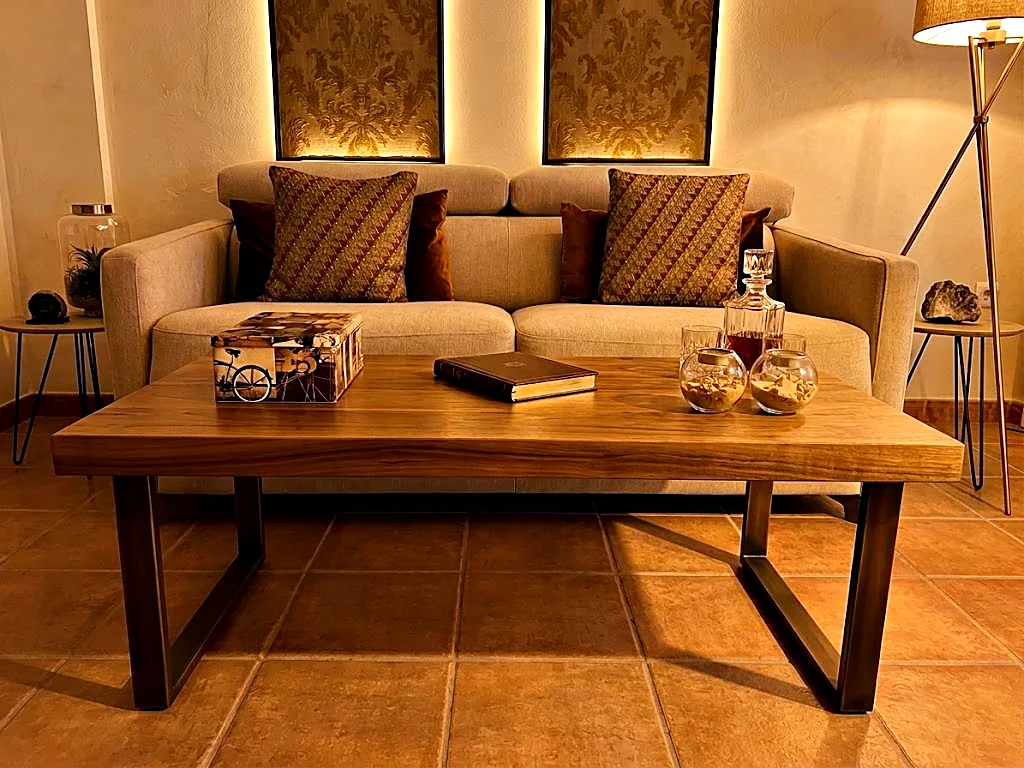
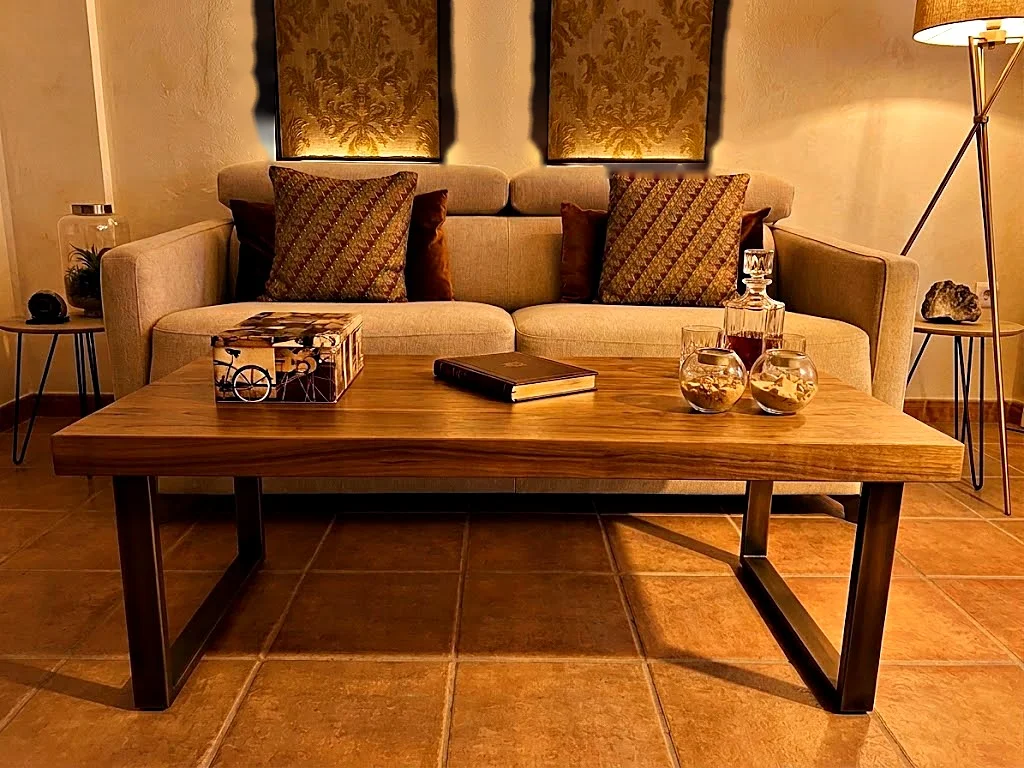
Thalassa: corregir dormitorio principal (vista al mar) y salón (quitar luz falsa de los paneles)
- Foto 2 de la galería (dormitorio, pared demasiado saturada) tenía la
  mejor vista al mar de las dos tomas del mismo dormitorio; se
  traslada esa vista a la foto que se queda (composición por
  homografía sobre el mismo hueco de ventana) y se elimina la foto 2
  de la galería (imgs + captions ES/EN + lqip), ya redundante.
- Salón "rincón de sofá": los dos paneles decorativos mostraban un
  resplandor cálido alrededor que no existe en la instalación real.
  Retocado con inpainting dirigido (máscara por umbral de brillo,
  limitada a las bandas junto a los paneles) para dejar la pared lisa.

diff --git a/docs/components/apartment-page.js b/docs/components/apartment-page.js
@@ -106,14 +106,14 @@ const APT_DATA = {
     floorplan_desc_es: 'Thalassa ocupa la tercera planta (desde el garaje) en una sola crujía: salón con terraza panorámica, cocina abierta, dos dormitorios, dos baños y vistas al Mediterráneo y al Salar de los Canos.',
     floorplan_desc_en: 'Thalassa occupies the third floor (from the garage) in a single open plan: living room with panoramic terrace, open kitchen, two bedrooms, two bathrooms and views over the Mediterranean and the Salar de los Canos.',
     others: ['vm', 'vs'],
-    gallery_imgs: ['assets/apt-vt-gallery-20.jpg', 'assets/apt-vt-gallery-22.jpg', 'assets/apt-vt-gallery-17.jpg', 'assets/apt-vt-gallery-19.jpg', 'assets/apt-vt-gallery-10.jpg', 'assets/apt-vt-gallery-23.jpg', 'assets/apt-vt-gallery-21.jpg', 'assets/apt-vt-gallery-24.jpg', 'assets/apt-vt-gallery-25.jpg', 'assets/apt-vt-gallery-26.jpg', 'assets/apt-vt-gallery-27.jpg', 'assets/apt-vt-gallery-28.jpg', 'assets/apt-vt-gallery-29.jpg', 'assets/apt-vt-gallery-06.jpg', 'assets/apt-vt-gallery-18.jpg', 'assets/apt-vt-gallery-11.jpg', 'assets/apt-vt-gallery-01.jpg', 'assets/apt-vt-gallery-03.jpg', 'assets/apt-vt-gallery-05.jpg', 'assets/apt-vt-gallery-09.jpg', 'assets/apt-vt-gallery-04.jpg', 'assets/apt-vt-gallery-12.jpg', 'assets/apt-vt-gallery-13.jpg', 'assets/apt-vt-gallery-07.jpg', 'assets/apt-vt-gallery-14.jpg', 'assets/apt-vt-gallery-16.jpg', 'assets/apt-vt-gallery-08.jpg'],
+    gallery_imgs: ['assets/apt-vt-gallery-20.jpg', 'assets/apt-vt-gallery-17.jpg', 'assets/apt-vt-gallery-19.jpg', 'assets/apt-vt-gallery-10.jpg', 'assets/apt-vt-gallery-23.jpg', 'assets/apt-vt-gallery-21.jpg', 'assets/apt-vt-gallery-24.jpg', 'assets/apt-vt-gallery-25.jpg', 'assets/apt-vt-gallery-26.jpg', 'assets/apt-vt-gallery-27.jpg', 'assets/apt-vt-gallery-28.jpg', 'assets/apt-vt-gallery-29.jpg', 'assets/apt-vt-gallery-06.jpg', 'assets/apt-vt-gallery-18.jpg', 'assets/apt-vt-gallery-11.jpg', 'assets/apt-vt-gallery-01.jpg', 'assets/apt-vt-gallery-03.jpg', 'assets/apt-vt-gallery-05.jpg', 'assets/apt-vt-gallery-09.jpg', 'assets/apt-vt-gallery-04.jpg', 'assets/apt-vt-gallery-12.jpg', 'assets/apt-vt-gallery-13.jpg', 'assets/apt-vt-gallery-07.jpg', 'assets/apt-vt-gallery-14.jpg', 'assets/apt-vt-gallery-16.jpg', 'assets/apt-vt-gallery-08.jpg'],
     es: {
       name: 'Hestía Thalassa',
       concept: 'El ático sobre el Mediterráneo y el Salar de los Canos.',
       desc: 'Hestía Thalassa es el ático, el más elevado de los tres. Desde su terraza panorámica se ve el Mediterráneo y, hacia el interior, el Salar de los Canos, un paisaje árido y de gran belleza que cambia con la luz del día. El punto más abierto y luminoso de toda la urbanización.',
       desc2: 'El ático tiene una planta abierta y una terraza con vistas al mar. La urbanización cuenta con piscina comunitaria con jacuzzi, minigim, y un minispa con piscina climatizada abierto en otoño, invierno y primavera.',
       features: ['El más alto · ves toda la playa, con la sensación de dominar la vista', '6 plazas + bebé · 2 habitaciones', 'Ático · tercera planta desde el garaje', 'Terraza panorámica · vistas al mar y al Salar de los Canos', '2 piscinas exteriores comunitarias + jacuzzi', 'Minigim · piscina climatizada + minispa (otoño-primavera)', '1,5 km de la playa', 'Mascotas · petición previa · suplemento', 'Aire acondicionado frío/calor', 'Smart TV 55" · Prime Video · HBO Max · Skyshowtime', 'WiFi fibra óptica · Amazon Alexa', 'Lavadora · lavavajillas · nevera · microondas', 'Cafetera de cápsulas + espresso · batidora · plancha', 'Cama matrimonial 150 cm · colchón viscoelástico', 'Toallas 100% algodón 200 hilos · nórdicos de plumas'],
-      gallery_captions: ['Salón · luz cálida, terraza a un paso', 'Dormitorio principal · turquesa y el mar al fondo', 'Terraza · noches cálidas que apetece alargar', 'Cocina · encimera gris, ocres que abrigan', 'Salón · rincón de sofá, luz de tarde', 'Dormitorio principal · manta suave y horizonte', 'Baño · lavabo en negro, espejo de luna', 'Dormitorio principal · luz cálida sobre turquesa', 'Piscina climatizada · minispa con vistas', 'Piscina climatizada · spa cubierto', 'Jacuzzi y piscina climatizada', 'Gimnasio comunitario', 'Sauna y baño de vapor', 'Comedor · mesa que crece, luz que acompaña', 'Piscina · desde arriba, el Mediterráneo espera', 'Terraza · el horizonte entero al atardecer', 'Terraza · el Mediterráneo se tiñe de oro', 'Dormitorio principal · bordados con tacto de hogar', 'Salón · el atardecer entra por la ventana', 'Terraza · bajo el toldo, sin prisa', 'Dormitorio 2 · cabeceros rojos, sueños de color', 'Dormitorio 2 · granate y luz que arropa', 'Dormitorio 2 · cojines índigo · invitación al descanso', 'Baño 1 · azul de mosaico bajo los pies', 'Baño 2 · ducha de obra, amarillo que despierta', 'Baño 2 · negro mate y una flor serena', 'Entrada · mueble artesano, espejo que recibe']
+      gallery_captions: ['Salón · luz cálida, terraza a un paso', 'Terraza · noches cálidas que apetece alargar', 'Cocina · encimera gris, ocres que abrigan', 'Salón · rincón de sofá, luz de tarde', 'Dormitorio principal · manta suave y horizonte', 'Baño · lavabo en negro, espejo de luna', 'Dormitorio principal · luz cálida sobre turquesa', 'Piscina climatizada · minispa con vistas', 'Piscina climatizada · spa cubierto', 'Jacuzzi y piscina climatizada', 'Gimnasio comunitario', 'Sauna y baño de vapor', 'Comedor · mesa que crece, luz que acompaña', 'Piscina · desde arriba, el Mediterráneo espera', 'Terraza · el horizonte entero al atardecer', 'Terraza · el Mediterráneo se tiñe de oro', 'Dormitorio principal · bordados con tacto de hogar', 'Salón · el atardecer entra por la ventana', 'Terraza · bajo el toldo, sin prisa', 'Dormitorio 2 · cabeceros rojos, sueños de color', 'Dormitorio 2 · granate y luz que arropa', 'Dormitorio 2 · cojines índigo · invitación al descanso', 'Baño 1 · azul de mosaico bajo los pies', 'Baño 2 · ducha de obra, amarillo que despierta', 'Baño 2 · negro mate y una flor serena', 'Entrada · mueble artesano, espejo que recibe']
     },
     en: {
       name: 'Hestía Thalassa',
@@ -121,7 +121,7 @@ const APT_DATA = {
       desc: 'Hestía Thalassa is the penthouse, the highest of the three. From its panoramic terrace you look out over the Mediterranean and, inland, the Salar de los Canos: an arid, dramatically beautiful landscape that shifts with the light throughout the day.',
       desc2: 'The penthouse is laid out as a single open floor with a terrace and sea views. The complex has a shared pool with jacuzzi, a mini-gym, and a mini-spa with heated pool open in autumn, winter and spring.',
       features: ['The highest · see the whole beach, commanding the view', '6 guests + baby · 2 bedrooms', 'Penthouse · third floor from the garage', 'Panoramic terrace · sea & Salar de los Canos views', '2 outdoor shared pools + jacuzzi', 'Mini-gym · heated pool + mini-spa (autumn–spring)', '1.5 km from the beach', 'Pets · on request · supplement', 'A/C heating & cooling', 'Smart TV 55" · Prime Video · HBO Max · Skyshowtime', 'Fibre WiFi · Amazon Alexa', 'Washer · dishwasher · fridge · microwave', 'Capsule + espresso coffee maker · blender · iron', 'Double bed 150 cm · memory foam mattress', '100% cotton 200-thread towels · down duvets'],
-      gallery_captions: ['Living room · warm light, terrace steps away', 'Master bedroom · teal and the sea beyond', 'Terrace · warm nights worth stretching', 'Kitchen · grey counter, ochre warmth', 'Living room · sofa corner, evening light', 'Master bedroom · soft throw and horizon', 'Bathroom · black vanity, moon-round mirror', 'Master bedroom · warm light on teal', 'Heated pool · mini-spa with views', 'Heated pool · the indoor spa', 'Jacuzzi and heated pool', 'Community gym', 'Sauna and steam room', 'Dining area · the table grows, light follows', 'Pool · from above, the Mediterranean beyond', 'Terrace · the whole horizon, golden hour', 'Terrace · the Mediterranean turns to gold', 'Master bedroom · embroidered cushions, touch of home', 'Living room · sunset pouring through the window', 'Terrace · under the awning, unhurried', 'Bedroom 2 · red headboards, colourful dreams', 'Bedroom 2 · burgundy warmth as night falls', 'Bedroom 2 · indigo cushions · an invitation to rest', 'Bathroom 1 · mosaic blue underfoot', 'Bathroom 2 · walk-in shower, yellow that wakes', 'Bathroom 2 · matte black, one quiet flower', "Entrance · artisan cabinet, a mirror's welcome"]
+      gallery_captions: ['Living room · warm light, terrace steps away', 'Terrace · warm nights worth stretching', 'Kitchen · grey counter, ochre warmth', 'Living room · sofa corner, evening light', 'Master bedroom · soft throw and horizon', 'Bathroom · black vanity, moon-round mirror', 'Master bedroom · warm light on teal', 'Heated pool · mini-spa with views', 'Heated pool · the indoor spa', 'Jacuzzi and heated pool', 'Community gym', 'Sauna and steam room', 'Dining area · the table grows, light follows', 'Pool · from above, the Mediterranean beyond', 'Terrace · the whole horizon, golden hour', 'Terrace · the Mediterranean turns to gold', 'Master bedroom · embroidered cushions, touch of home', 'Living room · sunset pouring through the window', 'Terrace · under the awning, unhurried', 'Bedroom 2 · red headboards, colourful dreams', 'Bedroom 2 · burgundy warmth as night falls', 'Bedroom 2 · indigo cushions · an invitation to rest', 'Bathroom 1 · mosaic blue underfoot', 'Bathroom 2 · walk-in shower, yellow that wakes', 'Bathroom 2 · matte black, one quiet flower', "Entrance · artisan cabinet, a mirror's welcome"]
     }
   },
   vs: {

diff --git a/docs/components/apartment-page.jsx b/docs/components/apartment-page.jsx
@@ -93,7 +93,6 @@ const APT_DATA = {
     others: ['vm', 'vs'],
     gallery_imgs: [
       'assets/apt-vt-gallery-20.jpg',
-      'assets/apt-vt-gallery-22.jpg',
       'assets/apt-vt-gallery-17.jpg',
       'assets/apt-vt-gallery-19.jpg',
       'assets/apt-vt-gallery-10.jpg',
@@ -126,7 +125,7 @@ const APT_DATA = {
       desc: 'Hestía Thalassa es el ático, el más elevado de los tres. Desde su terraza panorámica se ve el Mediterráneo y, hacia el interior, el Salar de los Canos, un paisaje árido y de gran belleza que cambia con la luz del día. El punto más abierto y luminoso de toda la urbanización.',
       desc2: 'El ático tiene una planta abierta y una terraza con vistas al mar. La urbanización cuenta con piscina comunitaria con jacuzzi, minigim, y un minispa con piscina climatizada abierto en otoño, invierno y primavera.',
       features: ['El más alto · ves toda la playa, con la sensación de dominar la vista', '6 plazas + bebé · 2 habitaciones', 'Ático · tercera planta desde el garaje', 'Terraza panorámica · vistas al mar y al Salar de los Canos', '2 piscinas exteriores comunitarias + jacuzzi', 'Minigim · piscina climatizada + minispa (otoño-primavera)', '1,5 km de la playa', 'Mascotas · petición previa · suplemento', 'Aire acondicionado frío/calor', 'Smart TV 55" · Prime Video · HBO Max · Skyshowtime', 'WiFi fibra óptica · Amazon Alexa', 'Lavadora · lavavajillas · nevera · microondas', 'Cafetera de cápsulas + espresso · batidora · plancha', 'Cama matrimonial 150 cm · colchón viscoelástico', 'Toallas 100% algodón 200 hilos · nórdicos de plumas'],
-      gallery_captions: ['Salón · luz cálida, terraza a un paso', 'Dormitorio principal · turquesa y el mar al fondo', 'Terraza · noches cálidas que apetece alargar', 'Cocina · encimera gris, ocres que abrigan', 'Salón · rincón de sofá, luz de tarde', 'Dormitorio principal · manta suave y horizonte', 'Baño · lavabo en negro, espejo de luna', 'Dormitorio principal · luz cálida sobre turquesa', 'Piscina climatizada · minispa con vistas', 'Piscina climatizada · spa cubierto', 'Jacuzzi y piscina climatizada', 'Gimnasio comunitario', 'Sauna y baño de vapor', 'Comedor · mesa que crece, luz que acompaña', 'Piscina · desde arriba, el Mediterráneo espera', 'Terraza · el horizonte entero al atardecer', 'Terraza · el Mediterráneo se tiñe de oro', 'Dormitorio principal · bordados con tacto de hogar', 'Salón · el atardecer entra por la ventana', 'Terraza · bajo el toldo, sin prisa', 'Dormitorio 2 · cabeceros rojos, sueños de color', 'Dormitorio 2 · granate y luz que arropa', 'Dormitorio 2 · cojines índigo · invitación al descanso', 'Baño 1 · azul de mosaico bajo los pies', 'Baño 2 · ducha de obra, amarillo que despierta', 'Baño 2 · negro mate y una flor serena', 'Entrada · mueble artesano, espejo que recibe'],
+      gallery_captions: ['Salón · luz cálida, terraza a un paso', 'Terraza · noches cálidas que apetece alargar', 'Cocina · encimera gris, ocres que abrigan', 'Salón · rincón de sofá, luz de tarde', 'Dormitorio principal · manta suave y horizonte', 'Baño · lavabo en negro, espejo de luna', 'Dormitorio principal · luz cálida sobre turquesa', 'Piscina climatizada · minispa con vistas', 'Piscina climatizada · spa cubierto', 'Jacuzzi y piscina climatizada', 'Gimnasio comunitario', 'Sauna y baño de vapor', 'Comedor · mesa que crece, luz que acompaña', 'Piscina · desde arriba, el Mediterráneo espera', 'Terraza · el horizonte entero al atardecer', 'Terraza · el Mediterráneo se tiñe de oro', 'Dormitorio principal · bordados con tacto de hogar', 'Salón · el atardecer entra por la ventana', 'Terraza · bajo el toldo, sin prisa', 'Dormitorio 2 · cabeceros rojos, sueños de color', 'Dormitorio 2 · granate y luz que arropa', 'Dormitorio 2 · cojines índigo · invitación al descanso', 'Baño 1 · azul de mosaico bajo los pies', 'Baño 2 · ducha de obra, amarillo que despierta', 'Baño 2 · negro mate y una flor serena', 'Entrada · mueble artesano, espejo que recibe'],
     },
     en: {
       name: 'Hestía Thalassa',
@@ -134,7 +133,7 @@ const APT_DATA = {
       desc: 'Hestía Thalassa is the penthouse, the highest of the three. From its panoramic terrace you look out over the Mediterranean and, inland, the Salar de los Canos: an arid, dramatically beautiful landscape that shifts with the light throughout the day.',
       desc2: 'The penthouse is laid out as a single open floor with a terrace and sea views. The complex has a shared pool with jacuzzi, a mini-gym, and a mini-spa with heated pool open in autumn, winter and spring.',
       features: ['The highest · see the whole beach, commanding the view', '6 guests + baby · 2 bedrooms', 'Penthouse · third floor from the garage', 'Panoramic terrace · sea & Salar de los Canos views', '2 outdoor shared pools + jacuzzi', 'Mini-gym · heated pool + mini-spa (autumn–spring)', '1.5 km from the beach', 'Pets · on request · supplement', 'A/C heating & cooling', 'Smart TV 55" · Prime Video · HBO Max · Skyshowtime', 'Fibre WiFi · Amazon Alexa', 'Washer · dishwasher · fridge · microwave', 'Capsule + espresso coffee maker · blender · iron', 'Double bed 150 cm · memory foam mattress', '100% cotton 200-thread towels · down duvets'],
-      gallery_captions: ['Living room · warm light, terrace steps away', 'Master bedroom · teal and the sea beyond', 'Terrace · warm nights worth stretching', 'Kitchen · grey counter, ochre warmth', 'Living room · sofa corner, evening light', 'Master bedroom · soft throw and horizon', 'Bathroom · black vanity, moon-round mirror', 'Master bedroom · warm light on teal', 'Heated pool · mini-spa with views', 'Heated pool · the indoor spa', 'Jacuzzi and heated pool', 'Community gym', 'Sauna and steam room', 'Dining area · the table grows, light follows', 'Pool · from above, the Mediterranean beyond', 'Terrace · the whole horizon, golden hour', 'Terrace · the Mediterranean turns to gold', 'Master bedroom · embroidered cushions, touch of home', 'Living room · sunset pouring through the window', 'Terrace · under the awning, unhurried', 'Bedroom 2 · red headboards, colourful dreams', 'Bedroom 2 · burgundy warmth as night falls', 'Bedroom 2 · indigo cushions · an invitation to rest', 'Bathroom 1 · mosaic blue underfoot', 'Bathroom 2 · walk-in shower, yellow that wakes', 'Bathroom 2 · matte black, one quiet flower', "Entrance · artisan cabinet, a mirror's welcome"],
+      gallery_captions: ['Living room · warm light, terrace steps away', 'Terrace · warm nights worth stretching', 'Kitchen · grey counter, ochre warmth', 'Living room · sofa corner, evening light', 'Master bedroom · soft throw and horizon', 'Bathroom · black vanity, moon-round mirror', 'Master bedroom · warm light on teal', 'Heated pool · mini-spa with views', 'Heated pool · the indoor spa', 'Jacuzzi and heated pool', 'Community gym', 'Sauna and steam room', 'Dining area · the table grows, light follows', 'Pool · from above, the Mediterranean beyond', 'Terrace · the whole horizon, golden hour', 'Terrace · the Mediterranean turns to gold', 'Master bedroom · embroidered cushions, touch of home', 'Living room · sunset pouring through the window', 'Terrace · under the awning, unhurried', 'Bedroom 2 · red headboards, colourful dreams', 'Bedroom 2 · burgundy warmth as night falls', 'Bedroom 2 · indigo cushions · an invitation to rest', 'Bathroom 1 · mosaic blue underfoot', 'Bathroom 2 · walk-in shower, yellow that wakes', 'Bathroom 2 · matte black, one quiet flower', "Entrance · artisan cabinet, a mirror's welcome"],
     },
   },
   vs: {

diff --git a/docs/index.html b/docs/index.html
@@ -213,7 +213,7 @@
     } catch (e) { console.warn('prices.json fetch failed; using fallback', e); }
 
     for (const file of COMPONENT_FILES) {
-      const res = await fetch(file + '?cv=b35e6eefe4');
+      const res = await fetch(file + '?cv=e2e18d8483');
       if (!res.ok) throw new Error(`Failed to load ${file}: ${res.status}`);
       const code = await res.text();
       // eslint-disable-next-line no-eval

diff --git a/docs/nosotros.html b/docs/nosotros.html
@@ -179,7 +179,7 @@
     } catch (e) { console.warn('prices.json fetch failed; using fallback', e); }
 
     for (const file of COMPONENT_FILES) {
-      const res = await fetch(file + '?cv=b35e6eefe4');
+      const res = await fetch(file + '?cv=e2e18d8483');
       if (!res.ok) throw new Error(`Failed to load ${file}: ${res.status}`);
       const code = await res.text();
       // eslint-disable-next-line no-eval

diff --git a/docs/noticias.html b/docs/noticias.html
@@ -112,7 +112,7 @@
     } catch (e) { console.warn('prices.json fetch failed; using fallback', e); }
 
     for (const file of COMPONENT_FILES) {
-      const res = await fetch(file + '?cv=b35e6eefe4');
+      const res = await fetch(file + '?cv=e2e18d8483');
       if (!res.ok) throw new Error(`Failed to load ${file}: ${res.status}`);
       const code = await res.text();
       // eslint-disable-next-line no-eval

diff --git a/docs/contacto.html b/docs/contacto.html
@@ -97,7 +97,7 @@
     } catch (e) { console.warn('prices.json fetch failed; using fallback', e); }
 
     for (const file of COMPONENT_FILES) {
-      const res = await fetch(file + '?cv=b35e6eefe4');
+      const res = await fetch(file + '?cv=e2e18d8483');
       if (!res.ok) throw new Error(`Failed to load ${file}: ${res.status}`);
       const code = await res.text();
       // eslint-disable-next-line no-eval

diff --git a/docs/cookies.html b/docs/cookies.html
@@ -67,7 +67,7 @@
     } catch (e) { console.warn('prices.json fetch failed; using fallback', e); }
 
     for (const file of COMPONENT_FILES) {
-      const res = await fetch(file + '?cv=b35e6eefe4');
+      const res = await fetch(file + '?cv=e2e18d8483');
       if (!res.ok) throw new Error(`Failed to load ${file}: ${res.status}`);
       const code = await res.text();
       // eslint-disable-next-line no-eval

diff --git a/docs/empresas.html b/docs/empresas.html
@@ -73,7 +73,7 @@
     } catch (e) { console.warn('prices.json fetch failed; using fallback', e); }
 
     for (const file of COMPONENT_FILES) {
-      const res = await fetch(file + '?cv=b35e6eefe4');
+      const res = await fetch(file + '?cv=e2e18d8483');
       if (!res.ok) throw new Error(`Failed to load ${file}: ${res.status}`);
       const code = await res.text();
       // eslint-disable-next-line no-eval

diff --git a/docs/escribir-opinion.html b/docs/escribir-opinion.html
@@ -67,7 +67,7 @@
     } catch (e) { console.warn('prices.json fetch failed; using fallback', e); }
 
     for (const file of COMPONENT_FILES) {
-      const res = await fetch(file + '?cv=b35e6eefe4');
+      const res = await fetch(file + '?cv=e2e18d8483');
       if (!res.ok) throw new Error(`Failed to load ${file}: ${res.status}`);
       const code = await res.text();
       // eslint-disable-next-line no-eval

diff --git a/docs/mapa.html b/docs/mapa.html
@@ -64,7 +64,7 @@
     } catch (e) { console.warn('prices.json fetch failed; using fallback', e); }
 
     for (const file of COMPONENT_FILES) {
-      const res = await fetch(file + '?cv=b35e6eefe4');
+      const res = await fetch(file + '?cv=e2e18d8483');
       if (!res.ok) throw new Error(`Failed to load ${file}: ${res.status}`);
       const code = await res.text();
       // eslint-disable-next-line no-eval

diff --git a/docs/porque-hestia.html b/docs/porque-hestia.html
@@ -98,7 +98,7 @@
     } catch (e) { console.warn('prices.json fetch failed; using fallback', e); }
 
     for (const file of COMPONENT_FILES) {
-      const res = await fetch(file + '?cv=b35e6eefe4');
+      const res = await fetch(file + '?cv=e2e18d8483');
       if (!res.ok) throw new Error(`Failed to load ${file}: ${res.status}`);
       const code = await res.text();
       // eslint-disable-next-line no-eval

diff --git a/docs/privacidad.html b/docs/privacidad.html
@@ -67,7 +67,7 @@
     } catch (e) { console.warn('prices.json fetch failed; using fallback', e); }
 
     for (const file of COMPONENT_FILES) {
-      const res = await fetch(file + '?cv=b35e6eefe4');
+      const res = await fetch(file + '?cv=e2e18d8483');
       if (!res.ok) throw new Error(`Failed to load ${file}: ${res.status}`);
       const code = await res.text();
       // eslint-disable-next-line no-eval
